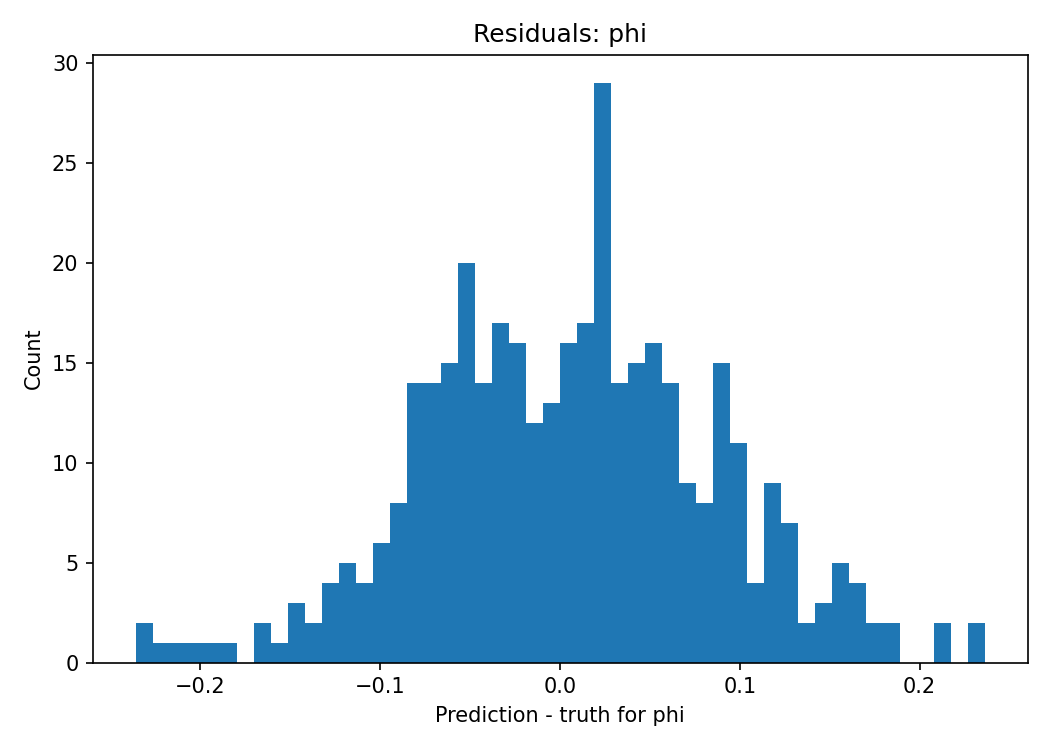
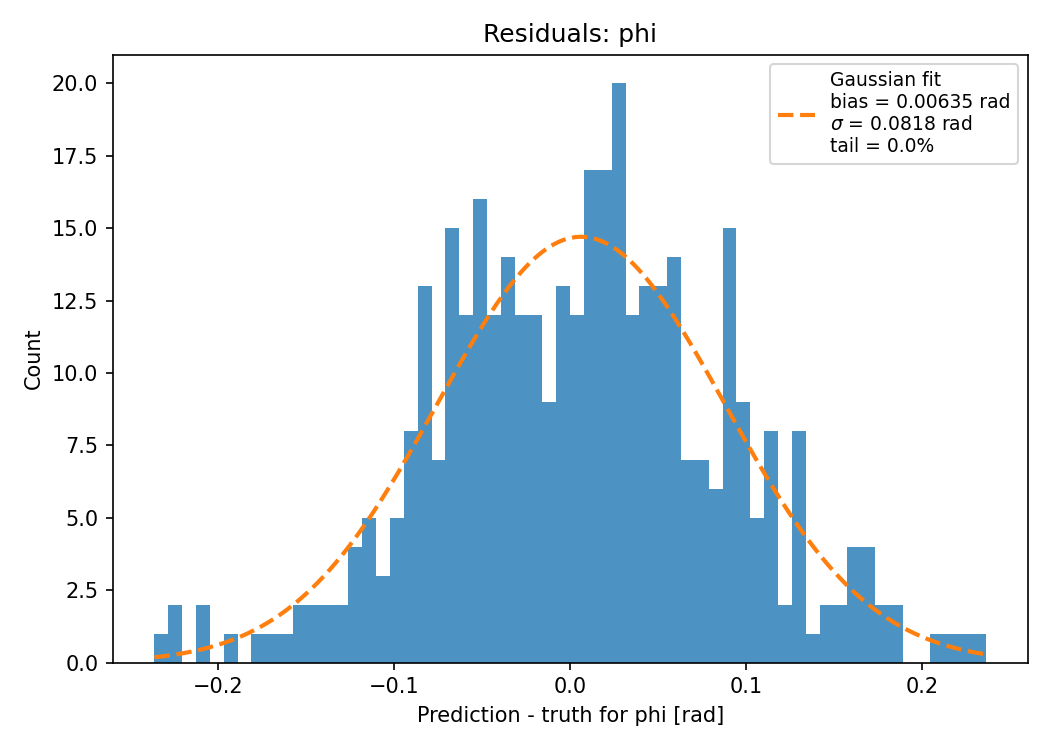
Add 1D Convolution both with and without theta as input

diff --git a/src/colliderml_electron/model.py b/src/colliderml_electron/model.py
@@ -161,3 +161,108 @@ class ConcatCaloRegressor(nn.Module):
         pred = self.head(z)
 
         return pred
+    
+    # ============================================================================
+# Add to src/colliderml_electron/model.py, AFTER the ConcatCaloRegressor class.
+# It inherits _select_top_cells from ConcatCaloRegressor and only changes how the
+# (B, L, D) encoder output is aggregated into a fixed vector: a small Conv1d stack
+# along the (energy-sorted) sequence, then a mask-aware mean+max pool, then a head.
+# ============================================================================
+
+
+class ConvCaloRegressor(ConcatCaloRegressor):
+    """
+    Same front end as ConcatCaloRegressor (top-cell selection + Fourier embed +
+    transformer encoder), but the aggregation is:
+
+        encoder output (B, L, D)
+        -> Conv1d stack along the sequence  (channels = D)
+        -> masked mean+max pool over real cells
+        -> MLP head
+
+    Note on ordering: _select_top_cells uses topk(sorted=True) on the energy
+    score, so position 0 is the highest-energy cell. The conv therefore mixes
+    energy-adjacent cells. That is the structure available here; sorting cells by
+    a physical axis (depth/radius) before the conv is a separate future lever.
+    """
+
+    def __init__(
+        self,
+        max_cells: int = 256,
+        model_dim: int = 128,
+        n_heads: int = 4,
+        n_layers: int = 3,
+        dim_feedforward: int = 256,
+        dropout: float = 0.1,
+        output_dim: int = 6,
+        high_level_dim: int = 7,
+        conv_dim: int = 128,
+        kernel_size: int = 5,
+    ):
+        # Build embed + encoder via the parent, then throw away its concat head.
+        super().__init__(
+            max_cells=max_cells,
+            model_dim=model_dim,
+            n_heads=n_heads,
+            n_layers=n_layers,
+            dim_feedforward=dim_feedforward,
+            dropout=dropout,
+            output_dim=output_dim,
+            high_level_dim=high_level_dim,
+        )
+
+        pad = kernel_size // 2  # 'same' length
+        self.conv = nn.Sequential(
+            nn.Conv1d(model_dim, conv_dim, kernel_size=kernel_size, padding=pad),
+            nn.GELU(),
+            nn.Conv1d(conv_dim, conv_dim, kernel_size=3, padding=1),
+            nn.GELU(),
+        )
+
+        # mean + max pooled -> 2 * conv_dim
+        self.head = nn.Sequential(
+            nn.LayerNorm(2 * conv_dim),
+            nn.Linear(2 * conv_dim, 128),
+            nn.GELU(),
+            nn.Dropout(dropout),
+            nn.Linear(128, output_dim),
+        )
+
+    def _force_fixed_length_with_mask(self, h, mask):
+        """Pad/truncate BOTH h (B,L,D) and mask (B,L) to exactly max_cells.
+        Appended positions are marked True (= padding)."""
+        B, L, D = h.shape
+        if L > self.max_cells:
+            return h[:, : self.max_cells, :], mask[:, : self.max_cells]
+        if L < self.max_cells:
+            pad_len = self.max_cells - L
+            h = F.pad(h, pad=(0, 0, 0, pad_len), value=0.0)
+            mask = F.pad(mask, pad=(0, pad_len), value=True)  # True = padding
+        return h, mask
+
+    @staticmethod
+    def _masked_mean_max(h_conv, mask):
+        """h_conv: (B, C, L)   mask: (B, L) True=padding.  Returns (B, 2C)."""
+        valid = (~mask).unsqueeze(1).to(h_conv.dtype)        # (B,1,L)
+        summed = (h_conv * valid).sum(dim=2)                 # (B,C)
+        count = valid.sum(dim=2).clamp_min(1.0)              # (B,1)
+        mean = summed / count
+        neg_inf = torch.finfo(h_conv.dtype).min
+        masked = h_conv.masked_fill(mask.unsqueeze(1), neg_inf)
+        mx = masked.max(dim=2).values                        # (B,C)
+        return torch.cat([mean, mx], dim=1)                  # (B,2C)
+
+    def forward(self, x_sampled, x_high_level, mask):
+        x_sampled, x_high_level, mask = self._select_top_cells(
+            x_sampled, x_high_level, mask
+        )
+
+        h, mask = self.encoder(x_sampled, x_high_level, mask)   # (B, L, D)
+        h, mask = self._force_fixed_length_with_mask(h, mask)   # (B, max_cells, D)
+
+        h = h.masked_fill(mask.unsqueeze(-1), 0.0)              # zero padding pre-conv
+        h = h.transpose(1, 2)                                  # (B, D, L) for Conv1d
+        h = self.conv(h)                                       # (B, conv_dim, L)
+
+        z = self._masked_mean_max(h, mask)                     # (B, 2*conv_dim)
+        return self.head(z)

diff --git a/scripts/train_eta_phi_angular_features.py b/scripts/train_eta_phi_angular_features.py
@@ -6,7 +6,7 @@ from torch import nn
 import wandb
 
 from colliderml_electron.dataset import make_loader, TARGET_COLS
-from colliderml_electron.model import ConcatCaloRegressor
+from colliderml_electron.model import ConcatCaloRegressor, ConvCaloRegressor
 
 
 ETA_INDEX = TARGET_COLS.index("truth_eta")
@@ -169,7 +169,7 @@ def evaluate(
 def main():
     config = {
         "architecture": "concat_transformer_eta_phi_angular_features",
-        "high_level_dim": 10,
+        "high_level_dim": 12,
         "use_angular_features": True,
         "dataset": "colliderml_release1_zee_prompt_electrons",
         "parquet_path": "data/electrons/electrons.parquet",
@@ -195,6 +195,12 @@ def main():
 
         "log_freq_batches": 10,
         "watch_gradients": False,
+
+        "model_type": "conv",     # "concat" reproduces your current baseline
+        "conv_dim": 128,
+        "kernel_size": 5,
+
+        "feature_set": "xyz_loge_eta_phi_theta",
     }
 
     with wandb.init(
@@ -239,16 +245,17 @@ def main():
             use_angular_features=cfg["use_angular_features"],
         )
 
-        model = ConcatCaloRegressor(
-            max_cells=cfg["max_cells"],
-            model_dim=cfg["model_dim"],
-            n_heads=cfg["n_heads"],
-            n_layers=cfg["n_layers"],
-            dim_feedforward=cfg["dim_feedforward"],
-            dropout=cfg["dropout"],
-            output_dim=cfg["output_dim"],
-            high_level_dim=cfg["high_level_dim"],
-        ).to(device)
+        common = dict(
+            max_cells=cfg["max_cells"], model_dim=cfg["model_dim"],
+            n_heads=cfg["n_heads"], n_layers=cfg["n_layers"],
+            dim_feedforward=cfg["dim_feedforward"], dropout=cfg["dropout"],
+            output_dim=cfg["output_dim"], high_level_dim=cfg["high_level_dim"],
+        )
+        if cfg.get("model_type", "concat") == "conv":
+            model = ConvCaloRegressor(**common, conv_dim=cfg["conv_dim"],
+                                      kernel_size=cfg["kernel_size"]).to(device)
+        else:
+            model = ConcatCaloRegressor(**common).to(device)
 
         if cfg["watch_gradients"]:
             run.watch(model, log="gradients", log_freq=100)
@@ -356,7 +363,7 @@ def main():
             )
 
         Path("checkpoints").mkdir(exist_ok=True)
-        checkpoint_path = Path("checkpoints/eta_phi_baseline.pt")
+        checkpoint_path = Path(f"checkpoints/eta_phi_{cfg['model_type']}_theta.pt")    # REPLACE
 
         torch.save(
             {

diff --git a/scripts/test_eta_phi_angular_features.py b/scripts/test_eta_phi_angular_features.py
@@ -7,7 +7,7 @@ import torch
 import wandb
 
 from colliderml_electron.dataset import make_loader, TARGET_COLS
-from colliderml_electron.model import ConcatCaloRegressor
+from colliderml_electron.model import ConcatCaloRegressor, ConvCaloRegressor
 from colliderml_electron.resolution import gaussian_resolution, plot_residual_fit
 
 ETA_INDEX = TARGET_COLS.index("truth_eta")
@@ -126,10 +126,11 @@ def main():
     device = get_device()
     print(f"Using device: {device}")
 
-    checkpoint_path = Path("checkpoints/eta_phi_baseline.pt")
+    checkpoint_path = Path("checkpoints/eta_phi_conv_theta.pt")
     parquet_path = Path("data/electrons/electrons.parquet")
     stats_path = Path("data/electrons/target_stats.json")
-    output_dir = Path("results/eta_phi_angular_features")
+    output_dir = Path("results/eta_phi_conv_theta")
+
 
     output_dir.mkdir(parents=True, exist_ok=True)
 
@@ -155,16 +156,17 @@ def main():
         use_angular_features=True,
     )
 
-    model = ConcatCaloRegressor(
-        max_cells=config["max_cells"],
-        model_dim=config["model_dim"],
-        n_heads=config["n_heads"],
-        n_layers=config["n_layers"],
-        dim_feedforward=config["dim_feedforward"],
-        dropout=config["dropout"],
-        output_dim=config["output_dim"],
-        high_level_dim=10,
+    common = dict(
+        max_cells=config["max_cells"], model_dim=config["model_dim"],
+        n_heads=config["n_heads"], n_layers=config["n_layers"],
+        dim_feedforward=config["dim_feedforward"], dropout=config["dropout"],
+        output_dim=config["output_dim"], high_level_dim=config["high_level_dim"],
     )
+    if config.get("model_type", "concat") == "conv":
+        model = ConvCaloRegressor(**common, conv_dim=config["conv_dim"],
+                                  kernel_size=config["kernel_size"])
+    else:
+        model = ConcatCaloRegressor(**common)
 
     model.load_state_dict(checkpoint["model_state_dict"])
     model.to(device)

diff --git a/src/colliderml_electron/dataset.py b/src/colliderml_electron/dataset.py
@@ -75,12 +75,20 @@ class ElectronDataset(Dataset):
             sin_phi = np.sin(cell_phi)[:, None].astype(np.float32)
             cos_phi = np.cos(cell_phi)[:, None].astype(np.float32)
 
+            # theta / cos(theta) from the same xyz as x_sampled (coords.py convention)
+            cx = x_sampled[:, 0]; cy = x_sampled[:, 1]; cz = x_sampled[:, 2]
+            r3d = np.sqrt(cx * cx + cy * cy + cz * cz)
+            cos_theta = (cz / np.clip(r3d, 1e-9, None)).astype(np.float32)[:, None]
+            theta = np.arctan2(np.hypot(cx, cy), cz).astype(np.float32)[:, None]
+
             x_high_level = np.concatenate(
                 [
                     log_e,
                     cell_eta,
                     sin_phi,
                     cos_phi,
+                    theta,
+                    cos_theta,
                     det_oh,
                 ],
                 axis=-1,